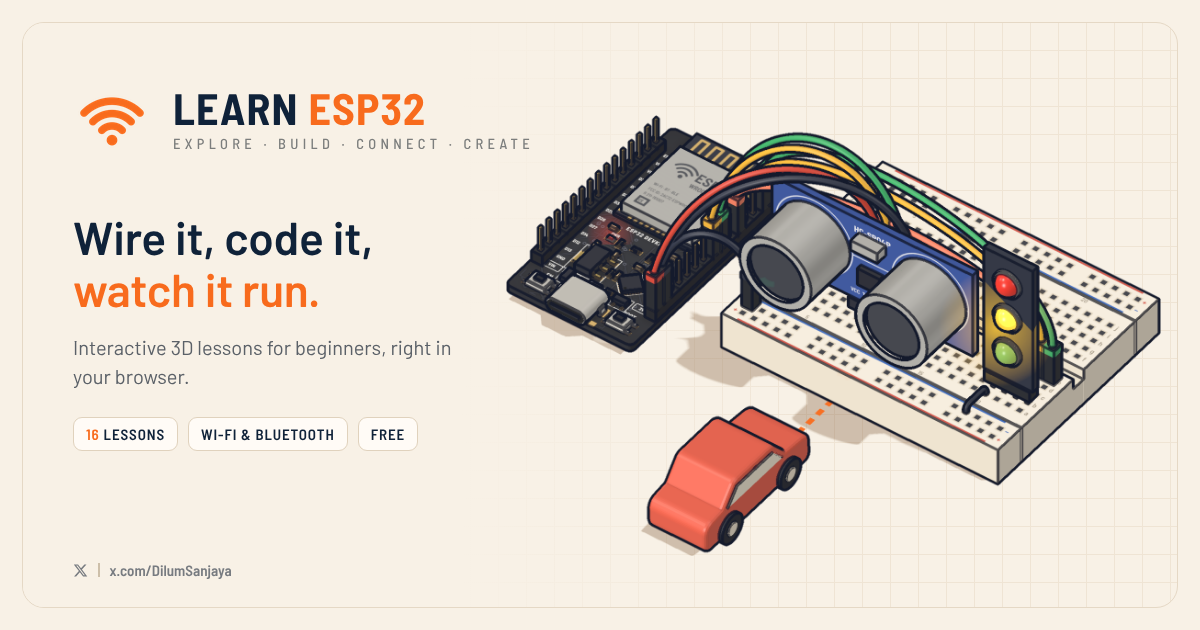
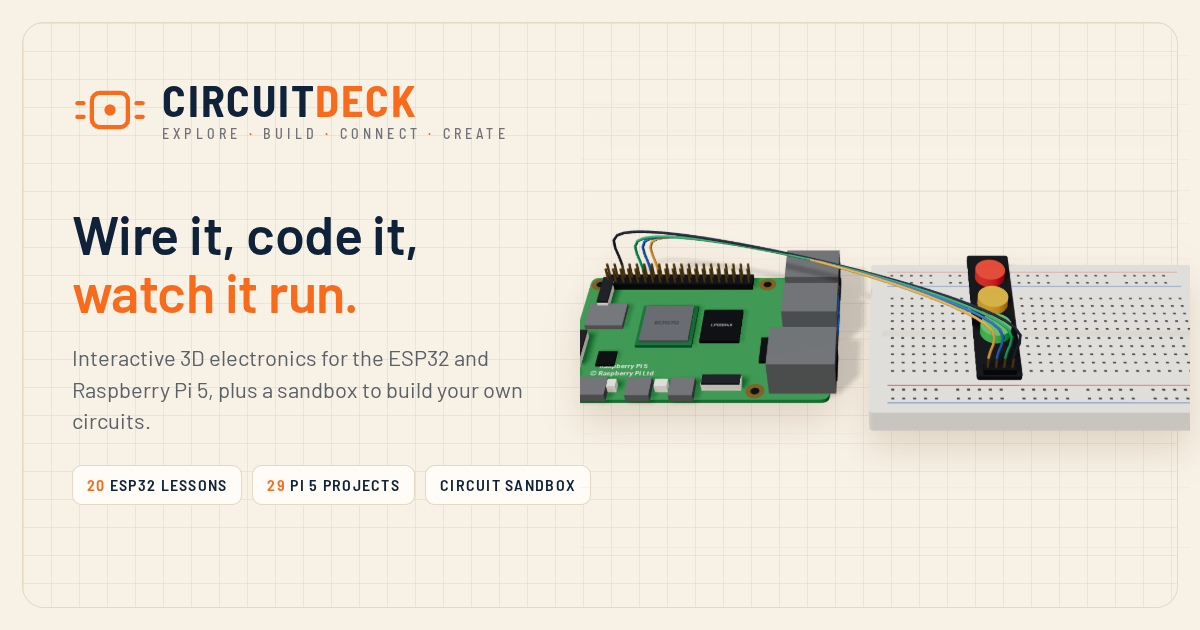
README rewrite with credit, new og-image, no trailing-slash redirect

diff --git a/README.md b/README.md
@@ -1,44 +1,39 @@
-# Learn ESP32 — local working copy
+# CircuitDeck
 
-Faithful offline copy of https://learn-esp32.vercel.app, created by **Dilum Sanjaya** ([x.com/DilumSanjaya](https://x.com/DilumSanjaya)).
-Captured 2 Nov 2026 (deploy last-modified 29 Oct 2026). No design or content changes.
+Interactive 3D electronics projects in the browser: wire parts to a 3D board, run the code, and watch it work.
 
-## Run (full stack)
-    cd learn-esp32-local
-    python3 serve.py 8080
-Then open http://localhost:8080/ (lessons are hash routes, e.g. /#blink, /#piano, /#stepper).
+- **ESP32 track** (`/`): 20 lessons, Arduino C++.
+- **Raspberry Pi 5 track** (`/pi5/`): 29 projects, Python (gpiozero, picamera2 and the AI Kit). Each has a 3D scene, a simulated run, tabs, a "What to buy" list and a difficulty tag.
+- **Sandbox** (`/sandbox/`): build your own ESP32 or Pi 5 circuit.
+  - Add parts from 33 types and wire them by clicking pins.
+  - Voltage and pin-conflict checks, generated code (C++ or Python), a simulated run, a wiring list and a parts list.
+  - Saves in localStorage, exports and imports JSON, and makes share links (a compressed circuit in the URL hash).
+  - 12 starter templates, including traffic light, weather station, robot car, door lock and AI camera.
+- **Gallery** (`/gallery/`): every lesson, project and template, filterable by track and difficulty.
+- A light/dark theme (light by default, remembered per browser), plus a track switcher on every page.
 
-`serve.py` (Python 3 standard library only) mimics the original Vercel static hosting: `/` serves index.html,
-unknown paths return the site's own `404.html` with HTTP 404, and directory listings are off.
-Plain alternatives also work for the site itself: `python3 -m http.server 8080` or `npx serve -l 8080 .`.
-It has to be served over HTTP from the web root. The Vite build uses root-absolute `/assets/...` ES modules,
-so opening index.html through file:// does not work. It needs no internet connection.
+Live: https://circuitdeck.vercel.app
 
-## Backend: there is none
-The original is a purely static Vite + three.js (r186) build.
-Everything interactive runs in the browser:
-- the 3D scenes
-- the simulated "upload" and serial monitor
-- in-scene controls
-- the lesson progress, settings, language and saved layout, all kept in `localStorage` (`learn-esp32:*` keys)
-- the 12 lazy-loaded locale chunks
+## Credit
+CircuitDeck is based on **Learn ESP32** by **Dilum Sanjaya** ([x.com/DilumSanjaya](https://x.com/DilumSanjaya)) and is republished with permission.
+The ESP32 track, the 3D style and the page layout are his work. The Pi 5 track, the sandbox and the gallery are new.
 
-Evidence:
-- The bundles make no fetch or XHR calls to any API. The only fetch is Vite's modulepreload.
-- On the live deployment, `/api`, `/api/run`, `/api/compile`, `/api/progress` and `/api/health` return Vercel `NOT_FOUND`.
-- There are no analytics or third-party requests.
-- With every non-localhost request blocked, the full test suite runs with zero blocked, failed or erroring requests.
+## Run locally
+    python3 serve.py 8080      # then open http://localhost:8080/
 
-So nothing had to be rebuilt. The only additions are `404.html` (mirrored from the live site) and `serve.py`.
-
-## Deploy (static)
-Any static host works. For Vercel, use no framework preset, no build command, and the repo root as the output directory.
-`vercel.json` is kept minimal.
+The site is fully static and has no backend; progress and settings live in `localStorage`. It must be served over HTTP from the web root, because the modules use root-absolute paths.
+`serve.py` (Python 3 standard library) behaves like the static host: it serves `index.html` for directories and `404.html` with an HTTP 404 status.
 
 ## Layout
-- index.html, 404.html, assets/ (JS chunks, CSS, woff2 fonts), icons, og-image.png, site.webmanifest, robots.txt, sitemap.xml: the site
-- serve.py: the local static server
-- _raw/, _compare/, _tools/: capture and verification material (local only, not part of the site)
+- `index.html`, `assets/`: the ESP32 track (a prebuilt Vite + three.js r186 bundle, with only branding strings changed)
+- `pi5/`, `sandbox/`: page shells generated by `_tools/mkpage.py`
+- `src/core/`: the shared stage, UI, boards and parts
+- `src/pi5/`: Pi 5 projects
+- `src/sandbox/`: circuit model, checks, codegen, simulation, templates and storage
+- `gallery/`: the gallery page, `data.json` and the ESP32 thumbnails
+- `shared/`: the track switcher and theme toggle (`chrome.js`, `cd.css`), plus page and gallery CSS
+- `vendor/three/`: three.js module and OrbitControls (used by the new pages through an importmap)
+- `_raw/`, `_compare/`, `_tools/`: local capture, test and build material (not deployed, git-ignored)
 
-## Routes (hash ids)
-board blink button wifi sound piano knob rgb light sensor motor servo bluetooth espnow project pump keypad solar radar stepper
+## Deploy
+This is a static site: Vercel needs no framework preset and no build command, with the repo root as the output directory.
